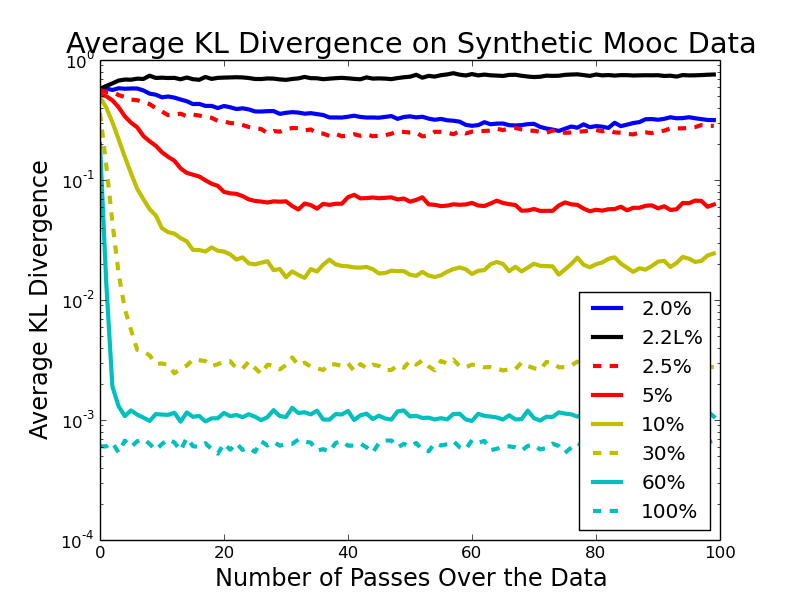
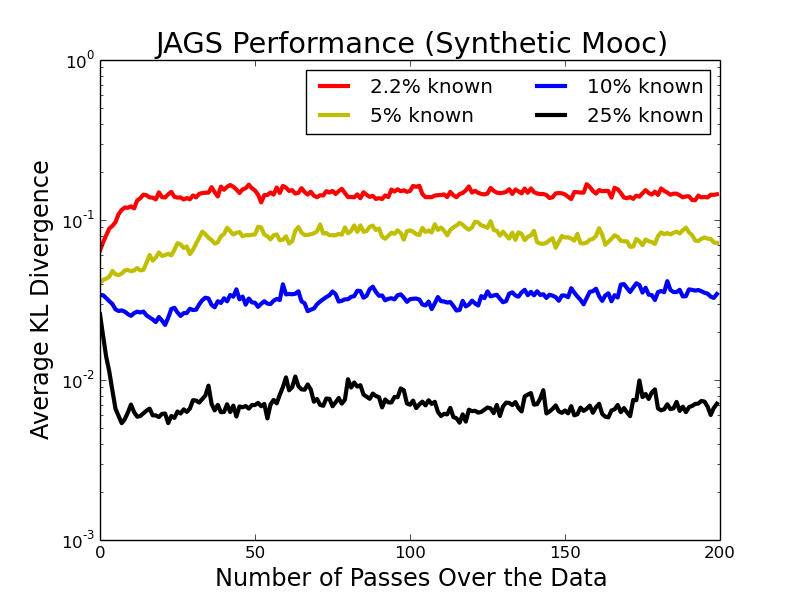
update jags fig

diff --git a/data_and_scripts/MoocSparsity/draw.py b/data_and_scripts/MoocSparsity/draw.py
@@ -2,26 +2,12 @@ import numpy as np
 import matplotlib.pyplot as plt
 import csv
 
-with open('./m1_2_0/divRes', 'rb') as csvfile:
+with open('./m1_2_2_mooc_sparse/divRes', 'rb') as csvfile:
     spamreader = csv.reader(csvfile, delimiter=',', quotechar=',')
     for row in spamreader:
         x = row
 x = np.array(x)
-m1_2_0 = x.astype(np.float)
-
-with open('./m1_2_2/divRes', 'rb') as csvfile:
-    spamreader = csv.reader(csvfile, delimiter=',', quotechar=',')
-    for row in spamreader:
-        x = row
-x = np.array(x)
-m1_2_2 = x.astype(np.float)
-
-with open('./m1_2_5/divRes', 'rb') as csvfile:
-    spamreader = csv.reader(csvfile, delimiter=',', quotechar=',')
-    for row in spamreader:
-        x = row
-x = np.array(x)
-m1_2_5 = x.astype(np.float)
+m1_2_2_mooc = x.astype(np.float)
 
 with open('./m1_5/divRes', 'rb') as csvfile:
     spamreader = csv.reader(csvfile, delimiter=',', quotechar=',')
@@ -37,47 +23,31 @@ with open('./m1_10/divRes', 'rb') as csvfile:
 x = np.array(x)
 m1_10 = x.astype(np.float)
 
-
-with open('./m1_30/divRes', 'rb') as csvfile:
+with open('./m1_25/divRes', 'rb') as csvfile:
     spamreader = csv.reader(csvfile, delimiter=',', quotechar=',')
     for row in spamreader:
         x = row
 x = np.array(x)
-m1_30 = x.astype(np.float)
-
-with open('./m1_60/divRes', 'rb') as csvfile:
-    spamreader = csv.reader(csvfile, delimiter=',', quotechar=',')
-    for row in spamreader:
-        x = row
-x = np.array(x)
-m1_60 = x.astype(np.float)
-
-
-with open('./m1_100/divRes', 'rb') as csvfile:
-    spamreader = csv.reader(csvfile, delimiter=',', quotechar=',')
-    for row in spamreader:
-        x = row
-x = np.array(x)
-m1_100 = x.astype(np.float)
+m1_25 = x.astype(np.float)
 
 
 ################
 
 plt.figure()
 #signals = ['ro--', 'y^--', 'bs--', 'ro-', 'y^-', 'bs-']
-signals = ['b-', 'k-', 'r--', 'r-', 'y-', 'y--', 'c-', 'c--']
+signals = ['r-', 'y-', 'b-', 'k-', 'y-', 'y--', 'c-', 'c--']
 #legend_labels = ["25%, m = 1", "25%, m = 5", "25%, m = 10", "50%, m = 1", "50%, m = 5", "50%, m = 10"]
-legend_labels = ["2.0%", "2.2L%", "2.5%", "5%", "10%", "30%", "60%", "100%"]
+legend_labels = ["2.2% known", "5% known", "10% known", "25% known"]
 #data = [kl_25_1, kl_25_5, kl_25_10, kl_50_1, kl_50_5, kl_50_10]
-data = [m1_2_0, m1_2_2, m1_2_5, m1_5, m1_10, m1_30, m1_60, m1_100]
+data = [m1_2_2_mooc, m1_5, m1_10, m1_25]
 i = 0
-for i in xrange(8):
+for i in xrange(4):
     linewidth_num = 3
-    plt.plot(data[i][:100], signals[i], label=legend_labels[i], linewidth=linewidth_num)
+    plt.plot(data[i][:300], signals[i], label=legend_labels[i], linewidth=linewidth_num)
 
 # Be sure to increase the font sizes! I might also have to experiment with a lot of other settings.
-plt.legend(loc='lower right', ncol=1)
-plt.title('Average KL Divergence on Synthetic Mooc Data', fontsize='xx-large')
+plt.legend(loc='upper right', ncol=2)
+plt.title('JAGS Performance (Synthetic Mooc)', fontsize='xx-large')
 plt.yscale('log')
 plt.xlabel('Number of Passes Over the Data', fontsize='x-large')
 plt.ylabel('Average KL Divergence', fontsize='x-large')
